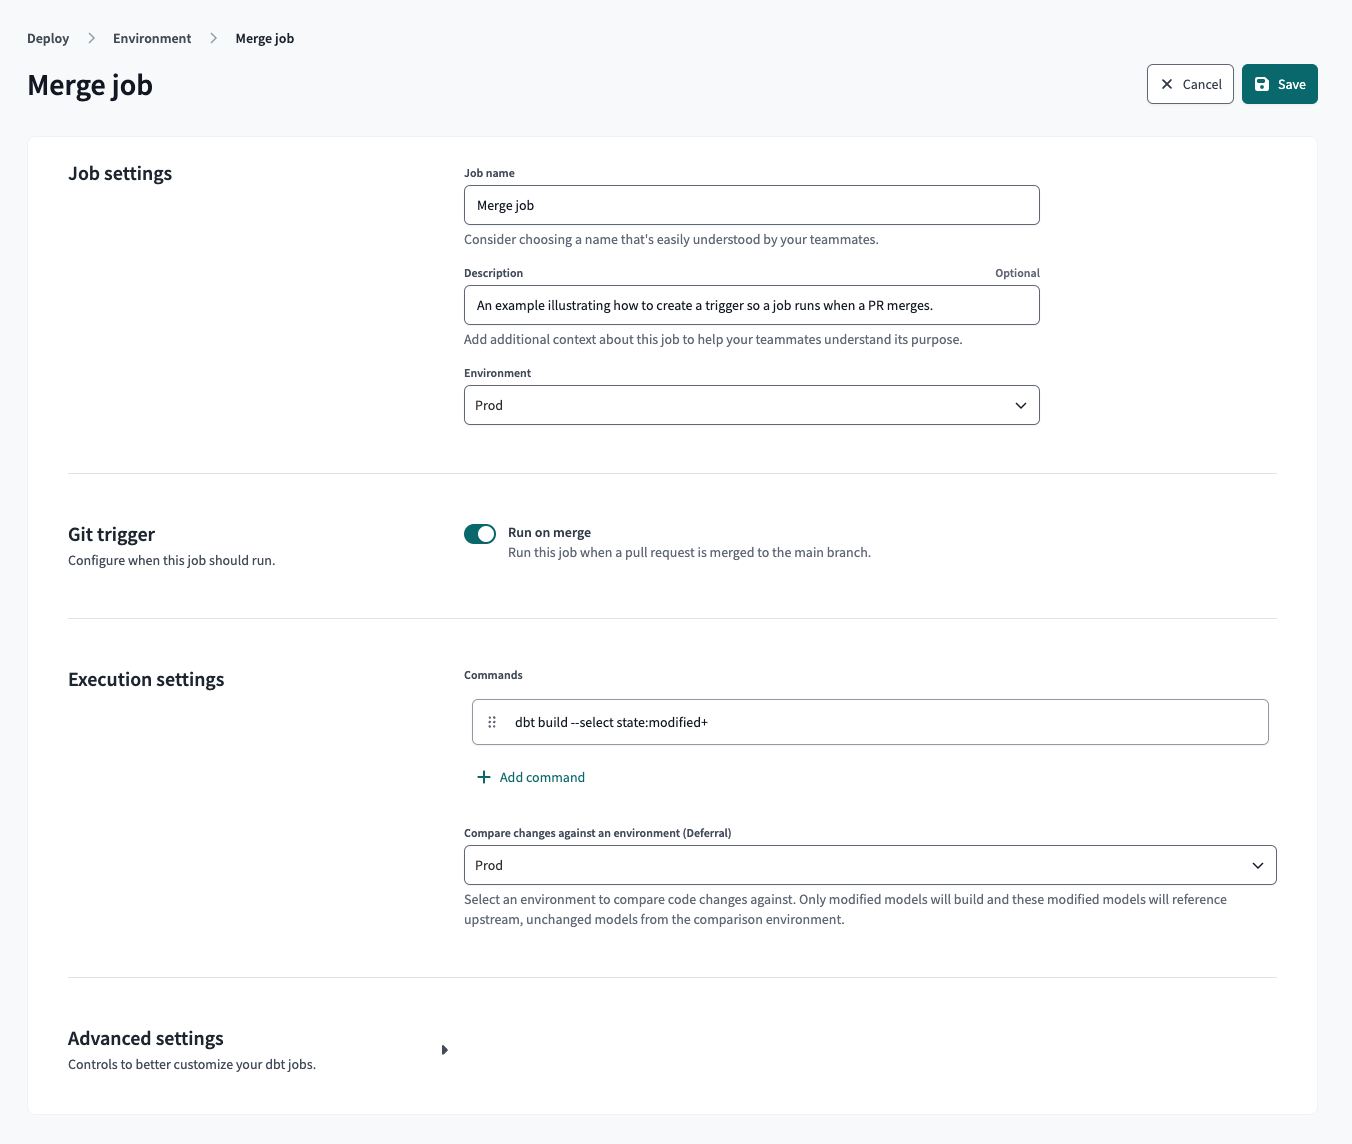
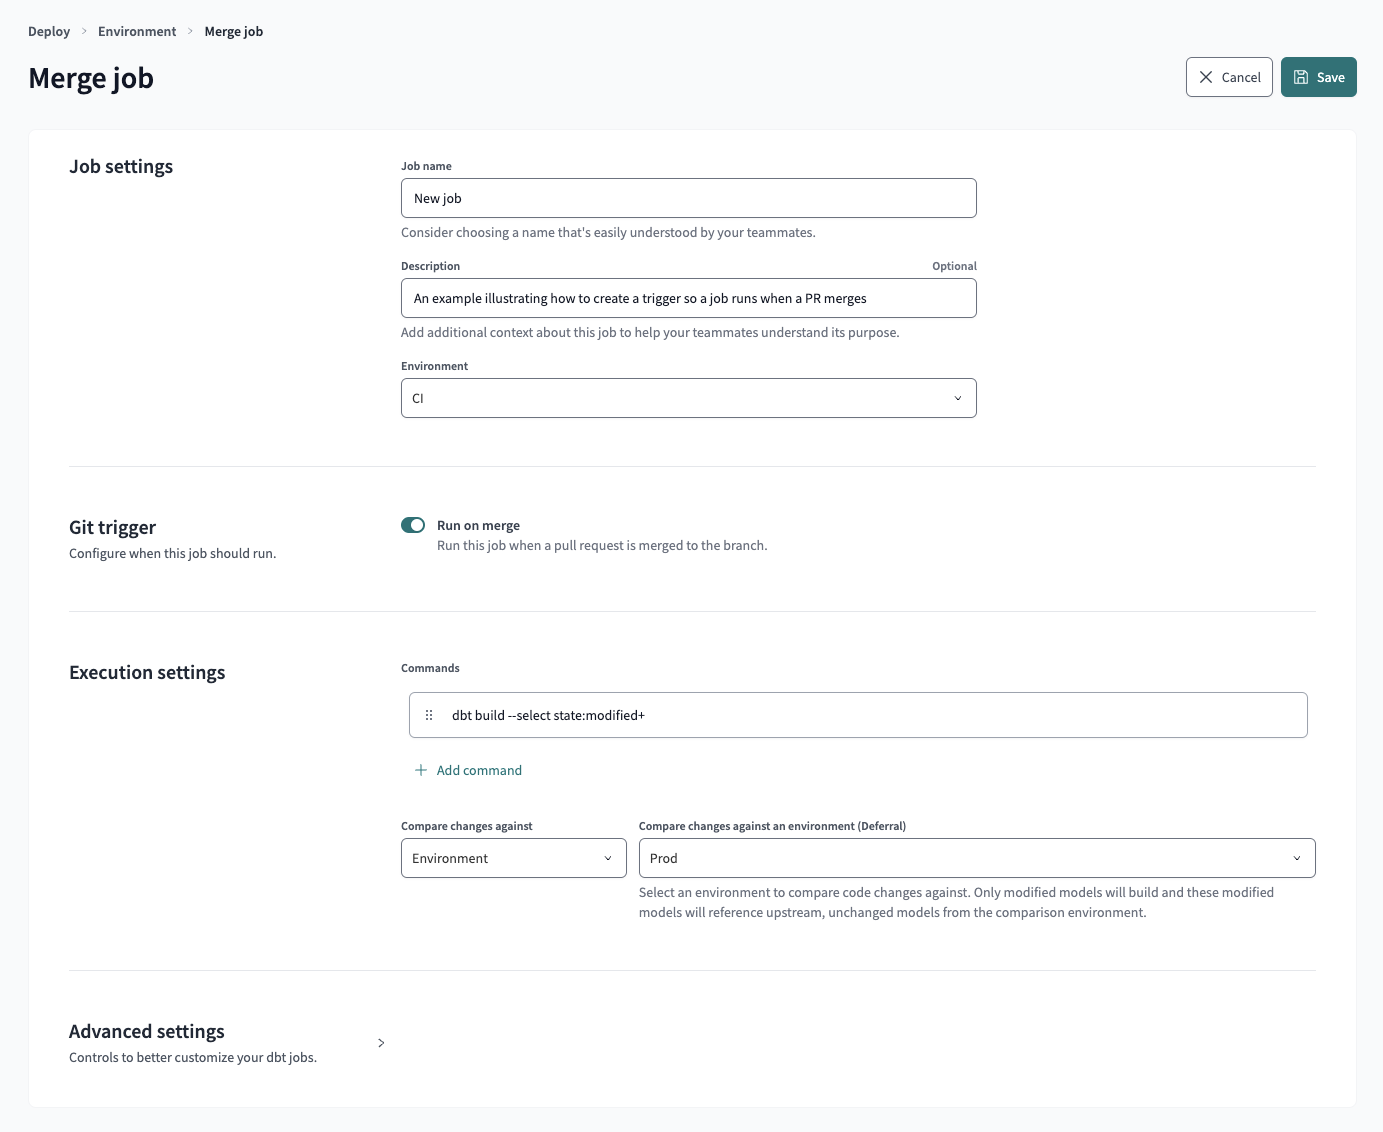
Updates to merge jobs

diff --git a/website/docs/docs/deploy/merge-jobs.md b/website/docs/docs/deploy/merge-jobs.md
@@ -17,23 +17,23 @@ By using CD in dbt Cloud, you can take advantage of deferral to build only the e
 
 ## Set up job trigger on Git merge {#set-up-merge-jobs}
 
-1. On your deployment environment page, click **Create Job** > **Merge Job**. 
+1. On your deployment environment page, click **Create job** > **Merge job**. 
 1. Options in the **Job settings** section:
     - **Job name** &mdash; Specify the name for the merge job.
     - **Description** &mdash; Provide a descripion about the job. 
     - **Environment** &mdash; By default, it’s set to the environment you created the job from.
-1. In the **Git trigger** section, the **Run on merge** option is enabled by default. Every time a PR merges (to the main branch) in your Git repo, this job will get triggered to run. 
+1. In the **Git trigger** section, the **Run on merge** option is enabled by default. Every time a PR merges (to a base
+branch configured in the environment) in your Git repo, this job will get triggered to run. 
 1. Options in the **Execution settings** section:
     - **Commands** &mdash; By default, it includes the `dbt build --select state:modified+` command. This informs dbt Cloud to build only new or changed models and their downstream dependents. Importantly, state comparison can only happen when there is a deferred environment selected to compare state to. Click **Add command** to add more [commands](/docs/deploy/job-commands) that you want to be invoked when this job runs.
-    - **Compare changes against an environment (Deferral)** &mdash; By default, it's set to the environment you created the job from. This option allows dbt Cloud to check the state of the code in the PR against the code running in the deferred environment, so as to only check the modified code, instead of building the full table or the entire DAG.
+    - **Compare changes against** &mdash; By default, it's set to compare changes against the environment you created the job from. This option allows dbt Cloud to check the state of the code in the PR against the code running in the deferred environment, so as to only check the modified code, instead of building the full table or the entire DAG. To change the default settings, you can select **No deferral** or choose a different environment. 
 1. (optional) Options in the **Advanced settings** section: 
     - **Environment variables** &mdash; Define [environment variables](/docs/build/environment-variables) to customize the behavior of your project when this job runs.
-    - **Target name** &mdash; Define the [target name](/docs/build/custom-target-names). Similar to **Environment Variables**, this option lets you customize the behavior of the project. 
+    - **Target name** &mdash; Define the [target name](/docs/build/custom-target-names). Similar to environment variables, this option lets you customize the behavior of the project. 
     - **Run timeout** &mdash; Cancel this job if the run time exceeds the timeout value.
     - **dbt version** &mdash; By default, it’s set to inherit the [dbt version](/docs/dbt-versions/core) from the environment. dbt Labs strongly recommends that you don't change the default setting. This option to change the version at the job level is useful only when you upgrade a project to the next dbt version; otherwise, mismatched versions between the environment and job can lead to confusing behavior.
     - **Threads** &mdash; By default, it’s set to 4 [threads](/docs/core/connect-data-platform/connection-profiles#understanding-threads). Increase the thread count to increase model execution concurrency.
-    - **Run source freshness** &mdash; Enable this option to invoke the `dbt source freshness` command before running this job. Refer to [Source freshness](/docs/deploy/source-freshness) for more details.
 
 ## Example 
 
-<Lightbox src="/img/docs/dbt-cloud/using-dbt-cloud/example-create-merge-job.png" width="90%" title="Example of creating a merge job"/>
+<Lightbox src="/img/docs/dbt-cloud/using-dbt-cloud/example-create-merge-job.png" title="Example of creating a merge job"/>
